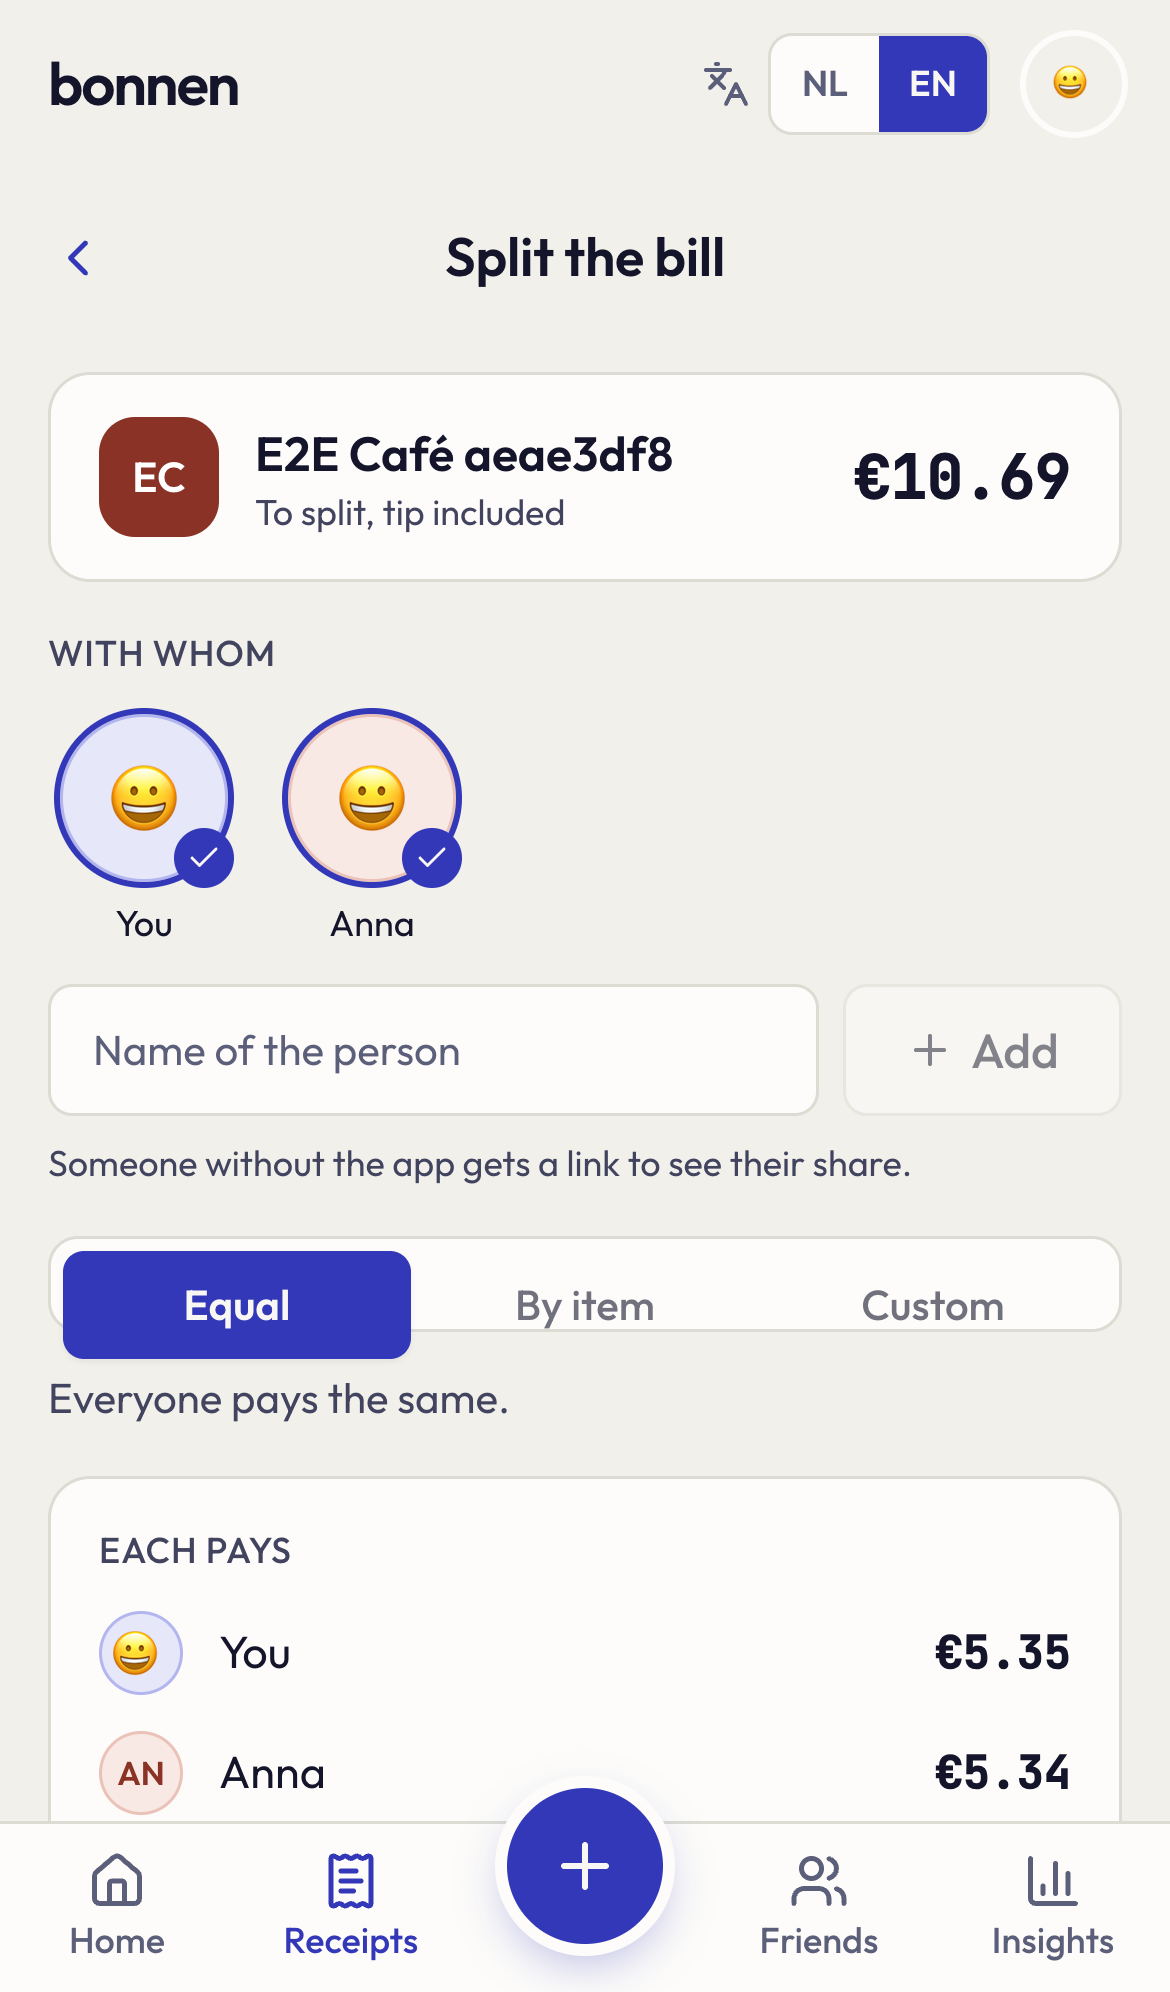
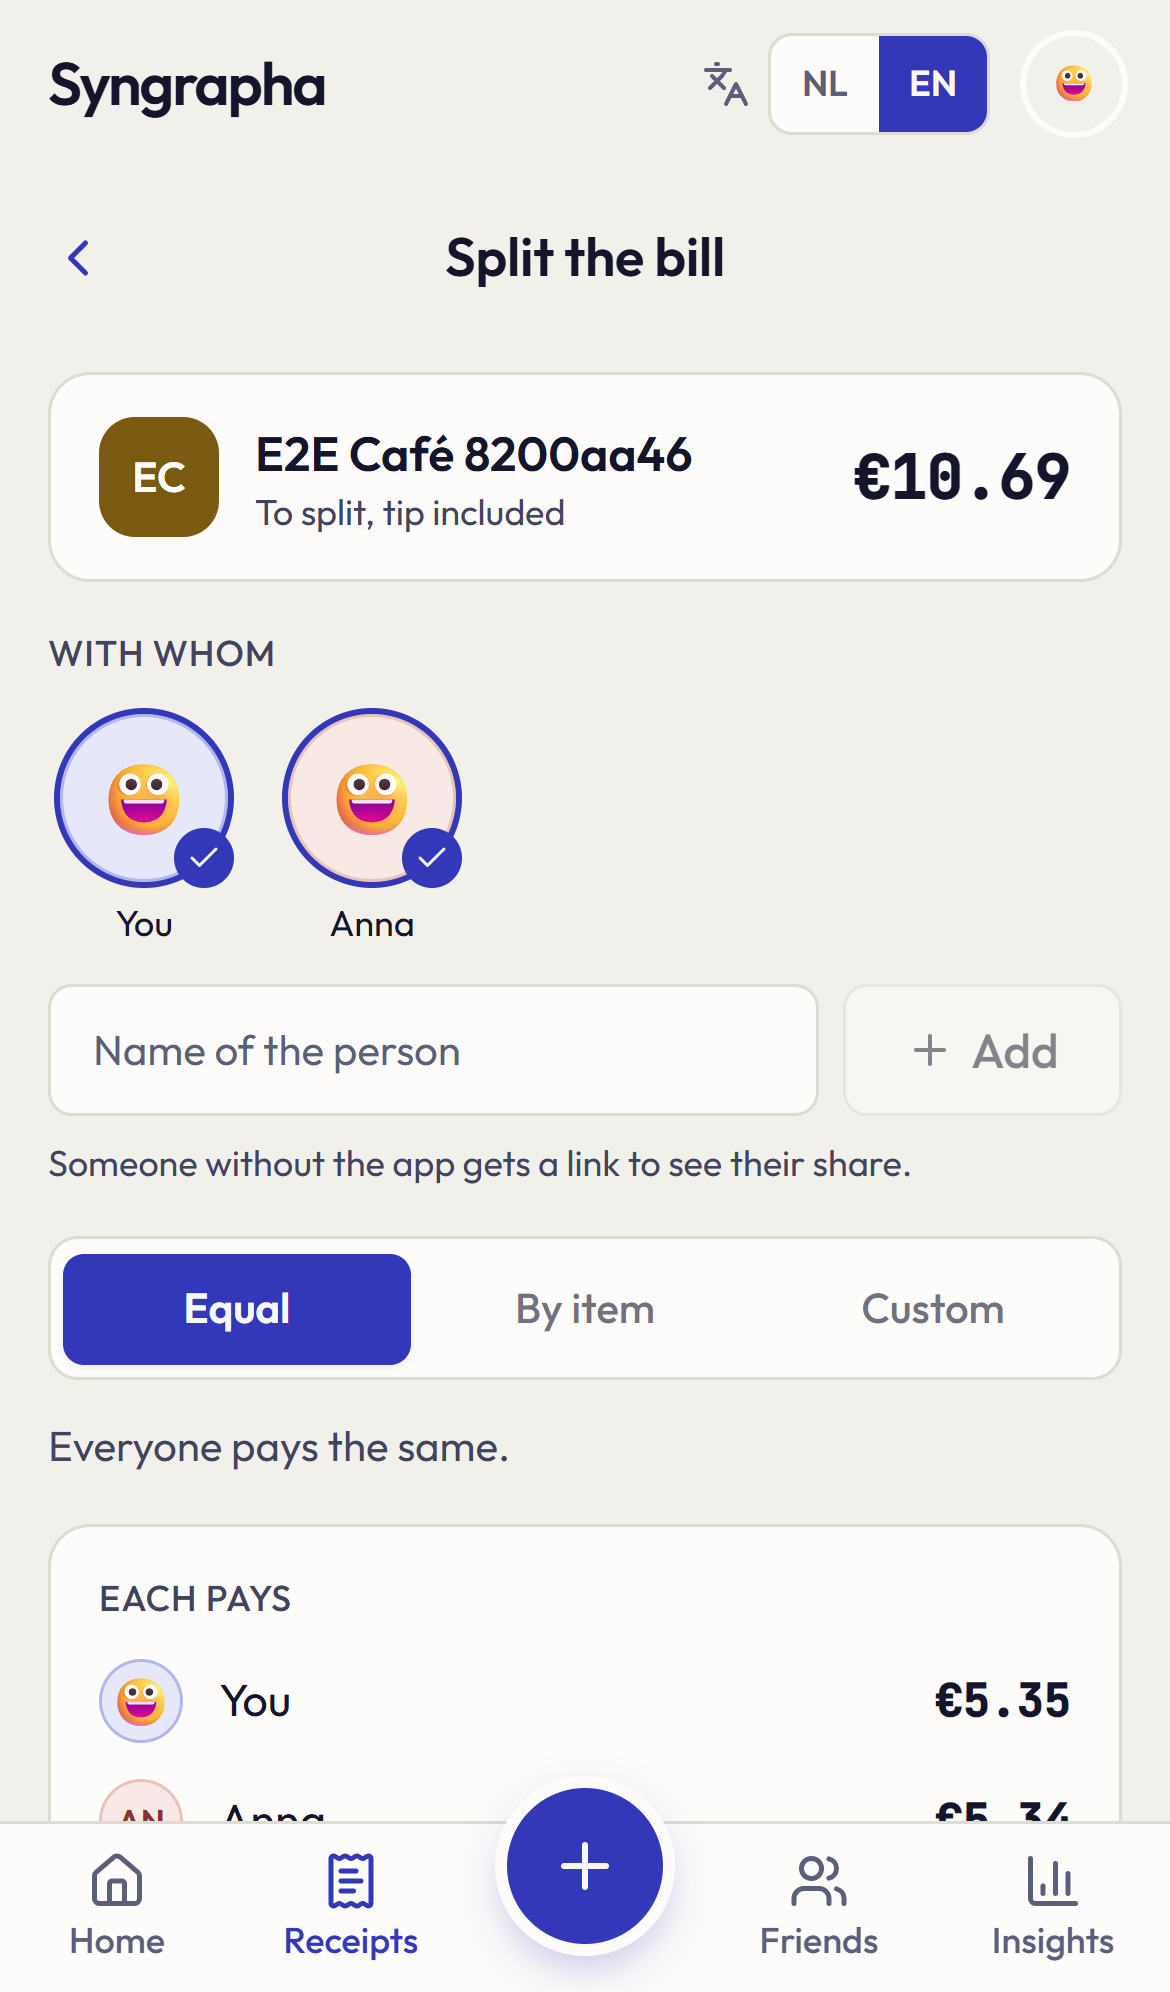
Fix the split screen: the mode switch holds its selected button
The Equal / By item / Custom switch was 32px tall around a 36px selected button, so the button stuck out
above and below the border. The Tabs component's default `h-8` is set with a group selector and beat the
page's `h-12`; the page now overrides it with the same selector. The split e2e checks that the bar is at least as
tall as the selected button.

diff --git a/e2e/friends-and-splits.spec.ts b/e2e/friends-and-splits.spec.ts
@@ -77,6 +77,10 @@ test('two buyers: become friends, split a saved receipt, settle, balances follow
     await sam.goto(`${URLS.wallet}/receipts/${receipt.receiptId}/split`);
     await sam.getByTestId('split-participant-0').click();
     await expect(sam.getByTestId('split-create')).toBeEnabled();
+    // the mode switch holds its selected button: the container must be at least as tall as the button (it was 32px for a 36px button)
+    const bar = await sam.getByRole('tablist').boundingBox();
+    const active = await sam.locator('[data-testid^="split-mode-"][data-state="active"]').boundingBox();
+    expect(bar && active && bar.height >= active.height + 2, `tab bar ${bar?.height}px, button ${active?.height}px`).toBe(true);
     await shot(sam, 'split-form');
     await sam.getByTestId('split-create').click();
     await sam.waitForURL(/\/splits\//);

diff --git a/apps/wallet/app/pages/receipts/[id]/split.vue b/apps/wallet/app/pages/receipts/[id]/split.vue
@@ -246,7 +246,7 @@ const modes: { value: SplitMode; label: MessageKey }[] = [
       <!-- mode -->
       <section class="space-y-3">
         <Tabs v-model="mode">
-          <TabsList class="grid h-12 w-full grid-cols-3 rounded-[10px] border border-border bg-card p-1">
+          <TabsList class="group-data-[orientation=horizontal]/tabs:h-12 grid h-12 w-full grid-cols-3 rounded-[10px] border border-border bg-card p-1">
             <TabsTrigger v-for="m in modes" :key="m.value" :value="m.value" :data-testid="`split-mode-${m.value}`" class="min-h-9 rounded-[7px] text-sm data-[state=active]:bg-primary data-[state=active]:font-semibold data-[state=active]:text-primary-foreground">{{ t(m.label) }}</TabsTrigger>
           </TabsList>
         </Tabs>
